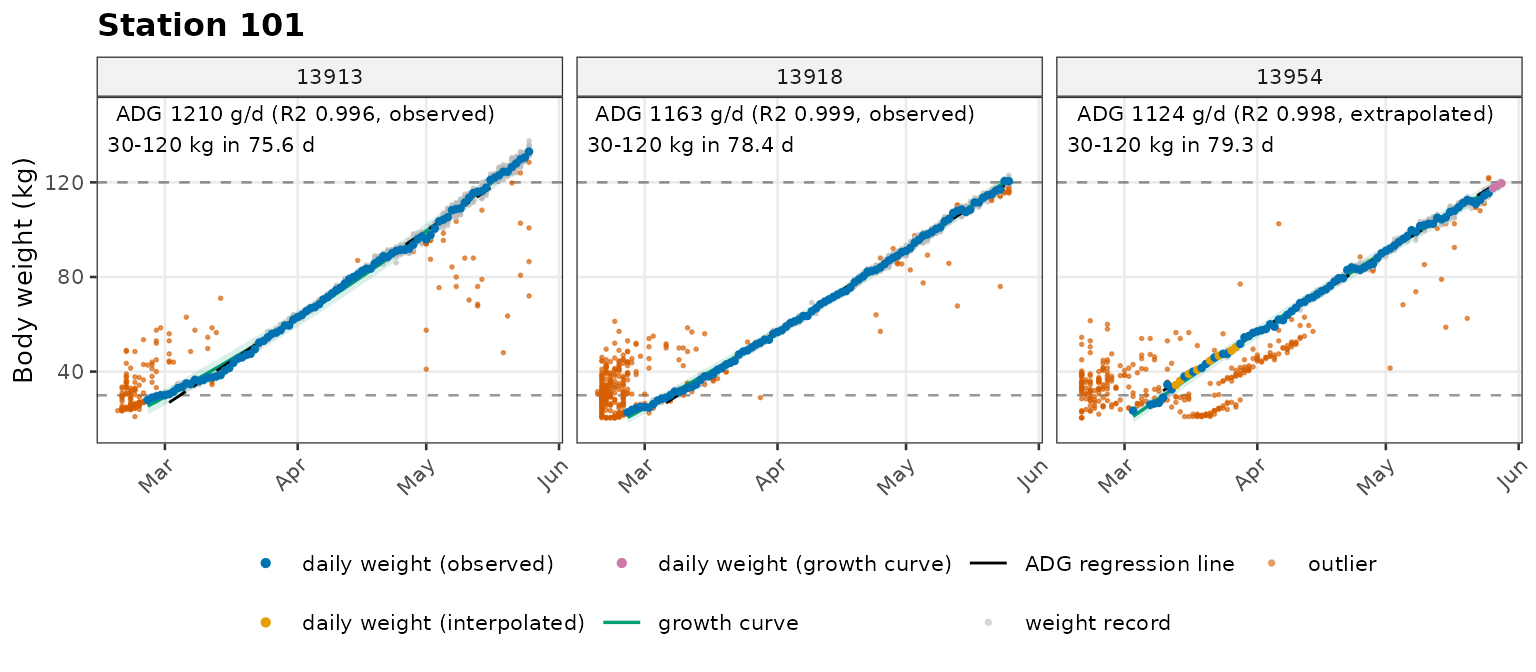
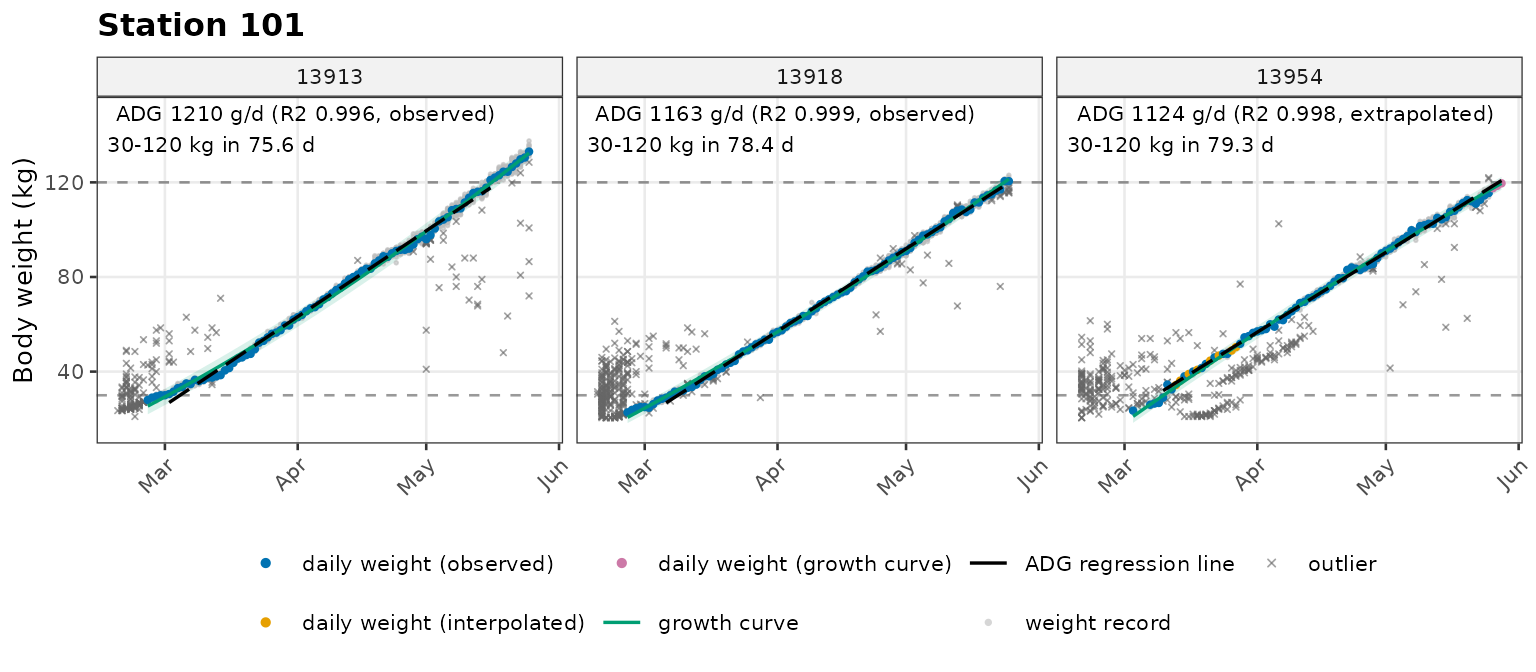
Deploying to gh-pages from @ tony2015116/tidypptsda@5e2335bb173b3b1134ee0aa8077d5a454b9609b1 🚀

diff --git a/articles/get-started.html b/articles/get-started.html
@@ -884,7 +884,7 @@ colour-blind safe palette (Okabe-Ito) without extra packages.</p>
 <div class="sourceCode" id="cb13"><pre class="downlit sourceCode r">
 <code class="sourceCode R"><span></span>
 <span><span class="va">out</span> <span class="op">&lt;-</span> <span class="fu"><a href="../reference/save_plots.html">save_plots</a></span><span class="op">(</span><span class="va">g</span>, path <span class="op">=</span> <span class="fu"><a href="https://rdrr.io/r/base/tempfile.html" class="external-link">tempdir</a></span><span class="op">(</span><span class="op">)</span>, prefix <span class="op">=</span> <span class="st">"loc"</span>, suffix <span class="op">=</span> <span class="st">"growth"</span>, device <span class="op">=</span> <span class="st">"pdf"</span><span class="op">)</span></span>
-<span><span class="co">#&gt; <span style="color: #00BB00;">✔</span> Saved 1 of 1 plot to <span style="color: #0000BB;">/tmp/RtmpP62YZs</span></span></span>
+<span><span class="co">#&gt; <span style="color: #00BB00;">✔</span> Saved 1 of 1 plot to <span style="color: #0000BB;">/tmp/RtmpAOjIol</span></span></span>
 <span><span class="fu"><a href="https://rdrr.io/r/base/files.html" class="external-link">file.exists</a></span><span class="op">(</span><span class="va">out</span><span class="op">$</span><span class="va">file</span><span class="op">)</span></span>
 <span><span class="co">#&gt; [1] TRUE</span></span>
 <span><span class="fu"><a href="https://rdrr.io/r/base/unlink.html" class="external-link">unlink</a></span><span class="op">(</span><span class="va">out</span><span class="op">$</span><span class="va">file</span><span class="op">)</span></span></code></pre></div>
@@ -936,19 +936,19 @@ mark so that Excel shows Chinese text correctly.</p>
 <div class="sourceCode" id="cb15"><pre class="downlit sourceCode r">
 <code class="sourceCode R"><span><span class="va">res</span> <span class="op">&lt;-</span> <span class="fu"><a href="../reference/run_pipeline.html">run_pipeline</a></span><span class="op">(</span><span class="va">nedap</span>, verbose <span class="op">=</span> <span class="fl">0</span><span class="op">)</span></span>
 <span><span class="va">out</span> <span class="op">&lt;-</span> <span class="fu"><a href="../reference/write_results.html">write_results</a></span><span class="op">(</span><span class="va">res</span>, dir <span class="op">=</span> <span class="fu"><a href="https://rdrr.io/r/base/file.path.html" class="external-link">file.path</a></span><span class="op">(</span><span class="fu"><a href="https://rdrr.io/r/base/tempfile.html" class="external-link">tempdir</a></span><span class="op">(</span><span class="op">)</span>, <span class="st">"results"</span><span class="op">)</span>, farm <span class="op">=</span> <span class="st">"demo"</span><span class="op">)</span></span>
-<span><span class="co">#&gt; <span style="color: #00BB00;">✔</span> Wrote 9 files to <span style="color: #0000BB;">/tmp/RtmpP62YZs/results</span></span></span>
+<span><span class="co">#&gt; <span style="color: #00BB00;">✔</span> Wrote 9 files to <span style="color: #0000BB;">/tmp/RtmpAOjIol/results</span></span></span>
 <span><span class="va">out</span></span>
 <span><span class="co">#&gt;           table                                                   file  rows</span></span>
 <span><span class="co">#&gt;          &lt;char&gt;                                                 &lt;char&gt; &lt;int&gt;</span></span>
-<span><span class="co">#&gt; 1:          fcr          /tmp/RtmpP62YZs/results/demo_fcr_20261023.csv    29</span></span>
-<span><span class="co">#&gt; 2:       by_bin       /tmp/RtmpP62YZs/results/demo_by_bin_20261023.csv   257</span></span>
-<span><span class="co">#&gt; 3:   daily_feed   /tmp/RtmpP62YZs/results/demo_daily_feed_20261023.csv  2820</span></span>
-<span><span class="co">#&gt; 4: daily_weight /tmp/RtmpP62YZs/results/demo_daily_weight_20261023.csv  2605</span></span>
-<span><span class="co">#&gt; 5:  weight_pigs  /tmp/RtmpP62YZs/results/demo_weight_pigs_20261023.csv    30</span></span>
-<span><span class="co">#&gt; 6:   feed_model   /tmp/RtmpP62YZs/results/demo_feed_model_20261023.csv    14</span></span>
-<span><span class="co">#&gt; 7:      summary      /tmp/RtmpP62YZs/results/demo_summary_20261023.csv    14</span></span>
-<span><span class="co">#&gt; 8:      removed      /tmp/RtmpP62YZs/results/demo_removed_20261023.csv     1</span></span>
-<span><span class="co">#&gt; 9:     settings     /tmp/RtmpP62YZs/results/demo_settings_20261023.csv    42</span></span>
+<span><span class="co">#&gt; 1:          fcr          /tmp/RtmpAOjIol/results/demo_fcr_20261023.csv    29</span></span>
+<span><span class="co">#&gt; 2:       by_bin       /tmp/RtmpAOjIol/results/demo_by_bin_20261023.csv   257</span></span>
+<span><span class="co">#&gt; 3:   daily_feed   /tmp/RtmpAOjIol/results/demo_daily_feed_20261023.csv  2820</span></span>
+<span><span class="co">#&gt; 4: daily_weight /tmp/RtmpAOjIol/results/demo_daily_weight_20261023.csv  2605</span></span>
+<span><span class="co">#&gt; 5:  weight_pigs  /tmp/RtmpAOjIol/results/demo_weight_pigs_20261023.csv    30</span></span>
+<span><span class="co">#&gt; 6:   feed_model   /tmp/RtmpAOjIol/results/demo_feed_model_20261023.csv    14</span></span>
+<span><span class="co">#&gt; 7:      summary      /tmp/RtmpAOjIol/results/demo_summary_20261023.csv    14</span></span>
+<span><span class="co">#&gt; 8:      removed      /tmp/RtmpAOjIol/results/demo_removed_20261023.csv     1</span></span>
+<span><span class="co">#&gt; 9:     settings     /tmp/RtmpAOjIol/results/demo_settings_20261023.csv    42</span></span>
 <span><span class="fu"><a href="https://rdrr.io/r/base/unlink.html" class="external-link">unlink</a></span><span class="op">(</span><span class="fu"><a href="https://rdrr.io/r/base/file.path.html" class="external-link">file.path</a></span><span class="op">(</span><span class="fu"><a href="https://rdrr.io/r/base/tempfile.html" class="external-link">tempdir</a></span><span class="op">(</span><span class="op">)</span>, <span class="st">"results"</span><span class="op">)</span>, recursive <span class="op">=</span> <span class="cn">TRUE</span><span class="op">)</span></span></code></pre></div>
 </div>
 <div class="section level2">
@@ -984,7 +984,8 @@ value.</li>
 <span><span class="va">vo</span> <span class="op">&lt;-</span> <span class="fu"><a href="../reference/validate_outliers.html">validate_outliers</a></span><span class="op">(</span><span class="va">visits</span>, reps <span class="op">=</span> <span class="fl">1</span><span class="op">)</span></span>
 <span><span class="co">#&gt; </span></span>
 <span><span class="co">#&gt; <span style="color: #00BBBB;">──</span> <span style="font-weight: bold;">Validating weight outlier methods (1 repetition, 5% artificial errors)</span> <span style="color: #00BBBB;">──────</span></span></span>
-<span><span class="co">#&gt; Validating outlier methods <span style="color: #00BB00;">■■■■■■■■■■■■                    </span>  38% | ETA:  2s</span></span>
+<span><span class="co">#&gt; Validating outlier methods <span style="color: #00BB00;">■■■■■■■■■                       </span>  25% | ETA:  4s</span></span>
+<span><span class="co">#&gt; Validating outlier methods <span style="color: #00BB00;">■■■■■■■■■■■■■■■■■■■■■■■         </span>  75% | ETA:  1s</span></span>
 <span><span class="co">#&gt; Validating outlier methods <span style="color: #00BB00;">■■■■■■■■■■■■■■■■■■■■■■■■■■■■■■■ </span> 100% | ETA:  0s</span></span>
 <span><span class="co">#&gt; track+rlm+loess: 93% of errors found, 0.4% of good records removed, ADG error</span></span>
 <span><span class="co">#&gt; 1.7 g/d</span></span>
@@ -1020,6 +1021,8 @@ value.</li>
 <span><span class="va">va</span> <span class="op">&lt;-</span> <span class="fu"><a href="../reference/validate_adg.html">validate_adg</a></span><span class="op">(</span><span class="va">w</span>, models <span class="op">=</span> <span class="fu"><a href="https://rdrr.io/r/base/c.html" class="external-link">c</a></span><span class="op">(</span><span class="st">"poly1"</span>, <span class="st">"poly2"</span>, <span class="st">"poly3"</span><span class="op">)</span><span class="op">)</span></span>
 <span><span class="co">#&gt; </span></span>
 <span><span class="co">#&gt; <span style="color: #00BBBB;">──</span> <span style="font-weight: bold;">Validating growth curves: 5-fold cross-validation and truncation</span> <span style="color: #00BBBB;">────────────</span></span></span>
+<span><span class="co">#&gt; validate_adg: fitting pigs <span style="color: #00BB00;">■■■■■■■■■■■■■■■■■■■■■■■■■■      </span>  83% | ETA:  0s</span></span>
+<span><span class="co">#&gt; validate_adg: fitting pigs <span style="color: #00BB00;">■■■■■■■■■■■■■■■■■■■■■■■■■■■■■■■ </span> 100% | ETA:  0s</span></span>
 <span><span class="co">#&gt; <span style="color: #00BB00;">✔</span> Lowest cross-validation error: <span style="color: #0000BB;">"poly3"</span> (1.39 kg)</span></span>
 <span><span class="va">va</span><span class="op">$</span><span class="va">summary</span></span>
 <span><span class="co">#&gt; Key: &lt;model&gt;</span></span>

diff --git a/articles/tidypptsda-zh.html b/articles/tidypptsda-zh.html
@@ -634,7 +634,132 @@ LOESS 平滑插补，超过 3 天的用每头猪的”日采食 ~
 <span><span class="co">#&gt; <span style="color: #00BB00;">✔</span> Created 1 feed intake plot</span></span>
 <span><span class="va">h</span><span class="op">$</span><span class="va">plot</span><span class="op">[[</span><span class="fl">1</span><span class="op">]</span><span class="op">]</span></span></code></pre></div>
 <p><img src="tidypptsda-zh_files/figure-html/plot-adfi-1.png" class="r-plt" alt="" width="100%"></p>
-<p>生长曲线图中，蓝色点是实测日体重，橙色点是线性插值的日体重，紫色点是用生长曲线填充的日体重；绿色曲线是生长曲线，黑色虚线是日增重的回归线。每个测定站输出一张图，每头猪一个分面。保存为图片：</p>
+<div class="section level3">
+<h3 id="生长曲线图怎么看">生长曲线图怎么看<a class="anchor" aria-label="anchor" href="#%E7%94%9F%E9%95%BF%E6%9B%B2%E7%BA%BF%E5%9B%BE%E6%80%8E%E4%B9%88%E7%9C%8B"></a>
+</h3>
+<p>每个测定站一张图，每头猪一个分面：</p>
+<table class="table">
+<colgroup>
+<col width="33%">
+<col width="33%">
+<col width="33%">
+</colgroup>
+<thead><tr class="header">
+<th>图中元素</th>
+<th>图例</th>
+<th>含义</th>
+</tr></thead>
+<tbody>
+<tr class="odd">
+<td>浅灰色小点</td>
+<td>weight record</td>
+<td>有效的原始体重记录（传入 <code>weight = w</code> 时才画）</td>
+</tr>
+<tr class="even">
+<td>深灰色小叉</td>
+<td>outlier</td>
+<td>被剔除的原始记录：适应期、超出体重范围、追踪剔除、rlm 或 LOESS
+判为异常，原因见 <code>w$records$qc_flag</code>
+</td>
+</tr>
+<tr class="odd">
+<td>蓝色点</td>
+<td>daily weight (observed)</td>
+<td>实测日体重：当天有效记录的中位数</td>
+</tr>
+<tr class="even">
+<td>橙黄色点</td>
+<td>daily weight (interpolated)</td>
+<td>两个有记录的日子之间缺失的日子，线性插值</td>
+</tr>
+<tr class="odd">
+<td>紫红色点</td>
+<td>daily weight (growth curve)</td>
+<td>首个有记录日之前、末个有记录日之后缺失的日子，用生长曲线填充</td>
+</tr>
+<tr class="even">
+<td>绿色实线和浅绿色带</td>
+<td>growth curve</td>
+<td>生长曲线及其约 95% 范围（±1.96 倍残差标准差）</td>
+</tr>
+<tr class="odd">
+<td>黑色长虚线</td>
+<td>ADG regression line</td>
+<td>区间内全部日体重（蓝、橙黄、紫红点）对日期的回归线，斜率就是
+ADG</td>
+</tr>
+<tr class="even">
+<td>灰色水平虚线</td>
+<td>—</td>
+<td>分析区间的上下限（<code>stage_range</code>）</td>
+</tr>
+</tbody>
+</table>
+<p>左上角的文字是日增重、回归
+R²、<code>adg_type</code>，以及区间从下限长到上限用了多少天。看图时重点看：紫红色点多（区间两端靠曲线填充）、橙黄色点成段出现（中间长时间缺记录）、深灰色叉成片出现（追踪剔除较多，可能是几头猪同时上秤或秤的问题）。</p>
+</div>
+<div class="section level3">
+<h3 id="采食量图怎么看">采食量图怎么看<a class="anchor" aria-label="anchor" href="#%E9%87%87%E9%A3%9F%E9%87%8F%E5%9B%BE%E6%80%8E%E4%B9%88%E7%9C%8B"></a>
+</h3>
+<p>只画区间内的日子：</p>
+<table class="table">
+<colgroup>
+<col width="33%">
+<col width="33%">
+<col width="33%">
+</colgroup>
+<thead><tr class="header">
+<th>图中元素</th>
+<th>图例</th>
+<th>含义</th>
+</tr></thead>
+<tbody>
+<tr class="odd">
+<td>浅灰色点</td>
+<td>recorded</td>
+<td>记录的日采食量（全部访问相加，未校正）</td>
+</tr>
+<tr class="even">
+<td>蓝色点</td>
+<td>error-free</td>
+<td>当天没有错误访问，直接使用记录值（<code>state = "org"</code>）</td>
+</tr>
+<tr class="odd">
+<td>橙色点</td>
+<td>corrected</td>
+<td>当天有错误访问，用混合模型校正后的值（<code>corr</code>）</td>
+</tr>
+<tr class="even">
+<td>绿色点</td>
+<td>filled (between records)</td>
+<td>两个有记录的日子之间缺失：≤ 3 天 LOESS，&gt; 3 天用”日采食 ~
+体重”回归（<code>iii</code>）</td>
+</tr>
+<tr class="odd">
+<td>紫红色点</td>
+<td>filled (stage ends)</td>
+<td>区间两端缺失，用”日采食 ~ 体重”回归（<code>elrp</code>）</td>
+</tr>
+<tr class="even">
+<td>细灰线</td>
+<td>—</td>
+<td>把最终使用的日采食量（彩色点）按日期连起来</td>
+</tr>
+<tr class="odd">
+<td>灰色水平虚线</td>
+<td>—</td>
+<td>这头猪的 ADFI（区间内日采食量的平均值）</td>
+</tr>
+</tbody>
+</table>
+<p>左上角的文字是
+ADFI，以及区间内有实测（含校正）采食的天数比例。灰色点和彩色点离得远的日子，说明当天的错误访问多、校正幅度大；紫红色点连成一长段，说明进站晚或出栏早，ADFI
+有一部分是推算的。</p>
+</div>
+<div class="section level3">
+<h3 id="保存图片">保存图片<a class="anchor" aria-label="anchor" href="#%E4%BF%9D%E5%AD%98%E5%9B%BE%E7%89%87"></a>
+</h3>
+<p>每个测定站输出一张图，每头猪一个分面。保存为图片：</p>
 <div class="sourceCode" id="cb15"><pre class="downlit sourceCode r">
 <code class="sourceCode R"><span><span class="fu"><a href="../reference/save_plots.html">save_plots</a></span><span class="op">(</span><span class="va">g</span>, path <span class="op">=</span> <span class="st">"结果/生长曲线"</span>, prefix <span class="op">=</span> <span class="st">"站"</span>, suffix <span class="op">=</span> <span class="st">"growth"</span>, device <span class="op">=</span> <span class="st">"png"</span><span class="op">)</span></span></code></pre></div>
 <p>保存图片的时间几乎都花在 ggplot2 绘图上：每个测定站（15 头猪左右）约
@@ -647,6 +772,7 @@ LOESS 平滑插补，超过 3 天的用每头猪的”日采食 ~
 <li>用 <code>locations</code> 或 <code>responders</code>
 只画需要核查的测定站或猪。</li>
 </ul>
+</div>
 </div>
 <div class="section level2">
 <h2 id="导出结果与并行计算">6. 导出结果与并行计算<a class="anchor" aria-label="anchor" href="#%E5%AF%BC%E5%87%BA%E7%BB%93%E6%9E%9C%E4%B8%8E%E5%B9%B6%E8%A1%8C%E8%AE%A1%E7%AE%97"></a>

diff --git a/reference/write_results.html b/reference/write_results.html
@@ -147,19 +147,19 @@ directory.</p></dd>
     <h2>Examples</h2>
     <div class="sourceCode"><pre class="sourceCode r"><code><span class="r-in"><span><span class="va">res</span> <span class="op">&lt;-</span> <span class="fu"><a href="run_pipeline.html">run_pipeline</a></span><span class="op">(</span><span class="va">nedap</span>, verbose <span class="op">=</span> <span class="fl">0</span><span class="op">)</span></span></span>
 <span class="r-in"><span><span class="va">out</span> <span class="op">&lt;-</span> <span class="fu">write_results</span><span class="op">(</span><span class="va">res</span>, dir <span class="op">=</span> <span class="fu"><a href="https://rdrr.io/r/base/file.path.html" class="external-link">file.path</a></span><span class="op">(</span><span class="fu"><a href="https://rdrr.io/r/base/tempfile.html" class="external-link">tempdir</a></span><span class="op">(</span><span class="op">)</span>, <span class="st">"results"</span><span class="op">)</span>, farm <span class="op">=</span> <span class="st">"demo"</span><span class="op">)</span></span></span>
-<span class="r-msg co"><span class="r-pr">#&gt;</span> <span style="color: #00BB00;">✔</span> Wrote 9 files to <span style="color: #0000BB;">/tmp/RtmpHicrd6/results</span></span>
+<span class="r-msg co"><span class="r-pr">#&gt;</span> <span style="color: #00BB00;">✔</span> Wrote 9 files to <span style="color: #0000BB;">/tmp/Rtmpus6LgC/results</span></span>
 <span class="r-in"><span><span class="va">out</span></span></span>
 <span class="r-out co"><span class="r-pr">#&gt;</span>           table                                                   file  rows</span>
 <span class="r-out co"><span class="r-pr">#&gt;</span>          &lt;char&gt;                                                 &lt;char&gt; &lt;int&gt;</span>
-<span class="r-out co"><span class="r-pr">#&gt;</span> 1:          fcr          /tmp/RtmpHicrd6/results/demo_fcr_20261023.csv    29</span>
-<span class="r-out co"><span class="r-pr">#&gt;</span> 2:       by_bin       /tmp/RtmpHicrd6/results/demo_by_bin_20261023.csv   257</span>
-<span class="r-out co"><span class="r-pr">#&gt;</span> 3:   daily_feed   /tmp/RtmpHicrd6/results/demo_daily_feed_20261023.csv  2820</span>
-<span class="r-out co"><span class="r-pr">#&gt;</span> 4: daily_weight /tmp/RtmpHicrd6/results/demo_daily_weight_20261023.csv  2605</span>
-<span class="r-out co"><span class="r-pr">#&gt;</span> 5:  weight_pigs  /tmp/RtmpHicrd6/results/demo_weight_pigs_20261023.csv    30</span>
-<span class="r-out co"><span class="r-pr">#&gt;</span> 6:   feed_model   /tmp/RtmpHicrd6/results/demo_feed_model_20261023.csv    14</span>
-<span class="r-out co"><span class="r-pr">#&gt;</span> 7:      summary      /tmp/RtmpHicrd6/results/demo_summary_20261023.csv    14</span>
-<span class="r-out co"><span class="r-pr">#&gt;</span> 8:      removed      /tmp/RtmpHicrd6/results/demo_removed_20261023.csv     1</span>
-<span class="r-out co"><span class="r-pr">#&gt;</span> 9:     settings     /tmp/RtmpHicrd6/results/demo_settings_20261023.csv    42</span>
+<span class="r-out co"><span class="r-pr">#&gt;</span> 1:          fcr          /tmp/Rtmpus6LgC/results/demo_fcr_20261023.csv    29</span>
+<span class="r-out co"><span class="r-pr">#&gt;</span> 2:       by_bin       /tmp/Rtmpus6LgC/results/demo_by_bin_20261023.csv   257</span>
+<span class="r-out co"><span class="r-pr">#&gt;</span> 3:   daily_feed   /tmp/Rtmpus6LgC/results/demo_daily_feed_20261023.csv  2820</span>
+<span class="r-out co"><span class="r-pr">#&gt;</span> 4: daily_weight /tmp/Rtmpus6LgC/results/demo_daily_weight_20261023.csv  2605</span>
+<span class="r-out co"><span class="r-pr">#&gt;</span> 5:  weight_pigs  /tmp/Rtmpus6LgC/results/demo_weight_pigs_20261023.csv    30</span>
+<span class="r-out co"><span class="r-pr">#&gt;</span> 6:   feed_model   /tmp/Rtmpus6LgC/results/demo_feed_model_20261023.csv    14</span>
+<span class="r-out co"><span class="r-pr">#&gt;</span> 7:      summary      /tmp/Rtmpus6LgC/results/demo_summary_20261023.csv    14</span>
+<span class="r-out co"><span class="r-pr">#&gt;</span> 8:      removed      /tmp/Rtmpus6LgC/results/demo_removed_20261023.csv     1</span>
+<span class="r-out co"><span class="r-pr">#&gt;</span> 9:     settings     /tmp/Rtmpus6LgC/results/demo_settings_20261023.csv    42</span>
 <span class="r-in"><span><span class="fu"><a href="https://rdrr.io/r/base/unlink.html" class="external-link">unlink</a></span><span class="op">(</span><span class="fu"><a href="https://rdrr.io/r/base/file.path.html" class="external-link">file.path</a></span><span class="op">(</span><span class="fu"><a href="https://rdrr.io/r/base/tempfile.html" class="external-link">tempdir</a></span><span class="op">(</span><span class="op">)</span>, <span class="st">"results"</span><span class="op">)</span>, recursive <span class="op">=</span> <span class="cn">TRUE</span><span class="op">)</span></span></span>
 </code></pre></div>
     </div>

diff --git a/reference/validate_outliers.html b/reference/validate_outliers.html
@@ -193,8 +193,8 @@ removes.</p>
 <span class="r-in"><span><span class="va">vo</span> <span class="op">&lt;-</span> <span class="fu">validate_outliers</span><span class="op">(</span><span class="va">visits</span>, reps <span class="op">=</span> <span class="fl">1</span><span class="op">)</span></span></span>
 <span class="r-msg co"><span class="r-pr">#&gt;</span> </span>
 <span class="r-msg co"><span class="r-pr">#&gt;</span> <span style="color: #00BBBB;">──</span> <span style="font-weight: bold;">Validating weight outlier methods (1 repetition, 5% artificial errors)</span> <span style="color: #00BBBB;">──────</span></span>
-<span class="r-msg co"><span class="r-pr">#&gt;</span> Validating outlier methods <span style="color: #00BB00;">■■■■■■■■■                       </span>  25% | ETA:  3s</span>
-<span class="r-msg co"><span class="r-pr">#&gt;</span> Validating outlier methods <span style="color: #00BB00;">■■■■■■■■■■■■■■■■■■■■■■■■■■■     </span>  88% | ETA:  0s</span>
+<span class="r-msg co"><span class="r-pr">#&gt;</span> Validating outlier methods <span style="color: #00BB00;">■■■■■■■■■                       </span>  25% | ETA:  4s</span>
+<span class="r-msg co"><span class="r-pr">#&gt;</span> Validating outlier methods <span style="color: #00BB00;">■■■■■■■■■■■■■■■■■■■■■■■■■■■     </span>  88% | ETA:  1s</span>
 <span class="r-msg co"><span class="r-pr">#&gt;</span> Validating outlier methods <span style="color: #00BB00;">■■■■■■■■■■■■■■■■■■■■■■■■■■■■■■■ </span> 100% | ETA:  0s</span>
 <span class="r-msg co"><span class="r-pr">#&gt;</span> track+rlm+loess: 93% of errors found, 0.4% of good records removed, ADG error</span>
 <span class="r-msg co"><span class="r-pr">#&gt;</span> 1.7 g/d</span>
@@ -230,6 +230,8 @@ removes.</p>
 <span class="r-in"><span><span class="va">va</span> <span class="op">&lt;-</span> <span class="fu"><a href="validate_adg.html">validate_adg</a></span><span class="op">(</span><span class="va">w</span>, models <span class="op">=</span> <span class="fu"><a href="https://rdrr.io/r/base/c.html" class="external-link">c</a></span><span class="op">(</span><span class="st">"poly1"</span>, <span class="st">"poly2"</span>, <span class="st">"poly3"</span><span class="op">)</span><span class="op">)</span></span></span>
 <span class="r-msg co"><span class="r-pr">#&gt;</span> </span>
 <span class="r-msg co"><span class="r-pr">#&gt;</span> <span style="color: #00BBBB;">──</span> <span style="font-weight: bold;">Validating growth curves: 5-fold cross-validation and truncation</span> <span style="color: #00BBBB;">────────────</span></span>
+<span class="r-msg co"><span class="r-pr">#&gt;</span> validate_adg: fitting pigs <span style="color: #00BB00;">■■■■■■■■■■■■■■■■■■■■■■■■■■■     </span>  86% | ETA:  0s</span>
+<span class="r-msg co"><span class="r-pr">#&gt;</span> validate_adg: fitting pigs <span style="color: #00BB00;">■■■■■■■■■■■■■■■■■■■■■■■■■■■■■■■ </span> 100% | ETA:  0s</span>
 <span class="r-msg co"><span class="r-pr">#&gt;</span> <span style="color: #00BB00;">✔</span> Lowest cross-validation error: <span style="color: #0000BB;">"poly3"</span> (1.39 kg)</span>
 <span class="r-in"><span><span class="va">va</span><span class="op">$</span><span class="va">summary</span></span></span>
 <span class="r-out co"><span class="r-pr">#&gt;</span> Key: &lt;model&gt;</span>

diff --git a/reference/plot_adg.html b/reference/plot_adg.html
@@ -153,7 +153,7 @@ to files.</p>
 <span class="r-plt img"><img src="plot_adg-2.png" alt="" width="700" height="433"></span>
 <span class="r-in"><span></span></span>
 <span class="r-in"><span><span class="va">out</span> <span class="op">&lt;-</span> <span class="fu"><a href="save_plots.html">save_plots</a></span><span class="op">(</span><span class="va">g</span>, path <span class="op">=</span> <span class="fu"><a href="https://rdrr.io/r/base/tempfile.html" class="external-link">tempdir</a></span><span class="op">(</span><span class="op">)</span>, prefix <span class="op">=</span> <span class="st">"loc"</span>, suffix <span class="op">=</span> <span class="st">"growth"</span>, device <span class="op">=</span> <span class="st">"pdf"</span><span class="op">)</span></span></span>
-<span class="r-msg co"><span class="r-pr">#&gt;</span> <span style="color: #00BB00;">✔</span> Saved 1 of 1 plot to <span style="color: #0000BB;">/tmp/RtmpHicrd6</span></span>
+<span class="r-msg co"><span class="r-pr">#&gt;</span> <span style="color: #00BB00;">✔</span> Saved 1 of 1 plot to <span style="color: #0000BB;">/tmp/Rtmpus6LgC</span></span>
 <span class="r-in"><span><span class="fu"><a href="https://rdrr.io/r/base/files.html" class="external-link">file.exists</a></span><span class="op">(</span><span class="va">out</span><span class="op">$</span><span class="va">file</span><span class="op">)</span></span></span>
 <span class="r-out co"><span class="r-pr">#&gt;</span> [1] TRUE</span>
 <span class="r-in"><span><span class="fu"><a href="https://rdrr.io/r/base/unlink.html" class="external-link">unlink</a></span><span class="op">(</span><span class="va">out</span><span class="op">$</span><span class="va">file</span><span class="op">)</span></span></span>

diff --git a/index.html b/index.html
@@ -156,6 +156,8 @@
 <span></span>
 <span><span class="fu"><a href="reference/plot_adg.html">plot_adg</a></span><span class="op">(</span><span class="va">adg</span>, weight <span class="op">=</span> <span class="va">weight</span><span class="op">)</span> <span class="op">|&gt;</span> <span class="fu"><a href="reference/save_plots.html">save_plots</a></span><span class="op">(</span><span class="st">"plots"</span>, suffix <span class="op">=</span> <span class="st">"growth"</span><span class="op">)</span></span></code></pre></div>
 <p><img src="reference/figures/README-plot-1.png" width="100%"></p>
+<p>Daily feed intake over the stage: recorded, error-free, corrected and filled days, with the ADFI as a dashed line:</p>
+<p><img src="reference/figures/README-plot-adfi-1.png" width="100%"></p>
 </div>
 <div class="section level2">
 <h2 id="references">References<a class="anchor" aria-label="anchor" href="#references"></a>

diff --git a/articles/validation-zh.html b/articles/validation-zh.html
@@ -484,8 +484,7 @@ ADG，与同一模型用全部数据算出的 ADG
 </div>
 </div>
 <div class="section level2">
-<h2 id="采食插补validate_adfi-3--采食插补validate_adfi">4. 采食插补：<code>validate_adfi()</code>## 3.
-采食插补：<code>validate_adfi()</code><a class="anchor" aria-label="anchor" href="#%E9%87%87%E9%A3%9F%E6%8F%92%E8%A1%A5validate_adfi-3--%E9%87%87%E9%A3%9F%E6%8F%92%E8%A1%A5validate_adfi"></a>
+<h2 id="采食插补validate_adfi">4. 采食插补：<code>validate_adfi()</code><a class="anchor" aria-label="anchor" href="#%E9%87%87%E9%A3%9F%E6%8F%92%E8%A1%A5validate_adfi"></a>
 </h2>
 <div class="section level3">
 <h3 id="做法-3">做法<a class="anchor" aria-label="anchor" href="#%E5%81%9A%E6%B3%95-3"></a>
